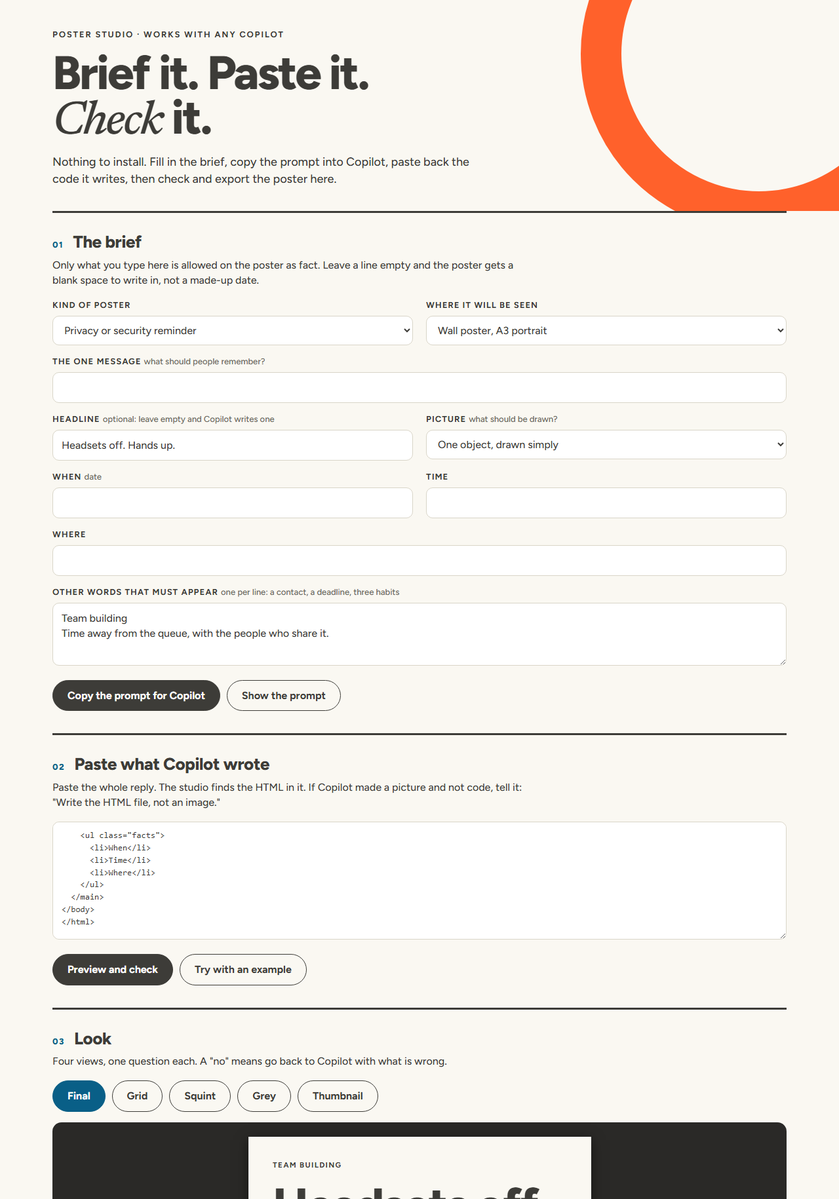
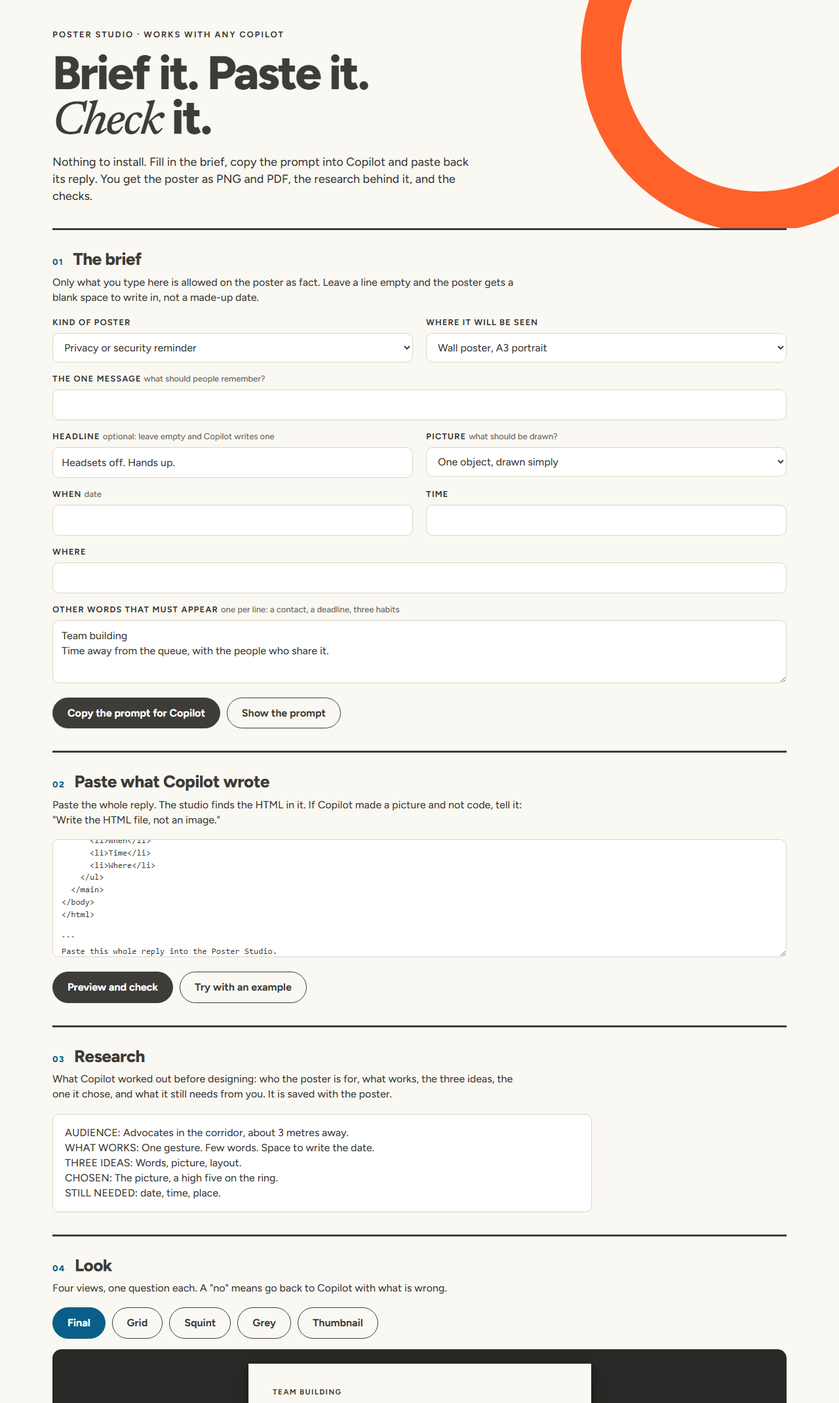
Outputs: PNG, PDF and research notes in one download; Copilot replies start with research

diff --git a/studio.html b/studio.html
@@ -52,6 +52,7 @@
   .FAIL b { color: var(--bad); } .WARN b { color: var(--warn); } .PASS b { color: var(--good); }
   ul.results i { font-style: normal; font-size: 12px; letter-spacing: .08em; text-transform: uppercase; color: #6b6960; }
   .sum { font-weight: 800; font-size: 18px; margin-top: 14px; }
+  pre.notes { white-space: pre-wrap; font: inherit; background: var(--paper); border: 1.5px solid var(--line); border-radius: 10px; padding: 16px 18px; max-width: 80ch; }
   .looks { display: grid; grid-template-columns: repeat(4, minmax(0, 1fr)); gap: 14px; margin-top: 14px; font-size: 14px; }
   .looks div { background: var(--tint); border-radius: 10px; padding: 12px 14px; }
   .looks strong { display: block; font-weight: 800; }
@@ -63,7 +64,7 @@
 <header>
   <p class="k">Poster Studio · works with any Copilot</p>
   <h1>Brief it. Paste it. <em>Check</em> it.</h1>
-  <p class="lead">Nothing to install. Fill in the brief, copy the prompt into Copilot, paste back the code it writes, then check and export the poster here.</p>
+  <p class="lead">Nothing to install. Fill in the brief, copy the prompt into Copilot and paste back its reply. You get the poster as PNG and PDF, the research behind it, and the checks.</p>
 </header>
 
 <main>
@@ -114,8 +115,14 @@
     </div>
   </section>
 
+  <section aria-labelledby="sr">
+    <h2 id="sr"><b>03</b>Research</h2>
+    <p class="hint">What Copilot worked out before designing: who the poster is for, what works, the three ideas, the one it chose, and what it still needs from you. It is saved with the poster.</p>
+    <pre id="notes" class="notes">The research appears here.</pre>
+  </section>
+
   <section aria-labelledby="s3">
-    <h2 id="s3"><b>03</b>Look</h2>
+    <h2 id="s3"><b>04</b>Look</h2>
     <p class="hint">Four views, one question each. A "no" means go back to Copilot with what is wrong.</p>
     <div class="row" role="group" aria-label="View">
       <button class="quiet view" data-view="final" aria-pressed="true">Final</button>
@@ -134,7 +141,7 @@
   </section>
 
   <section aria-labelledby="s4">
-    <h2 id="s4"><b>04</b>Checks</h2>
+    <h2 id="s4"><b>05</b>Checks</h2>
     <p class="hint">Measured on the poster as it is drawn. Fix every FAIL. For a WARN, fix it or know why it stays.</p>
     <p class="sum" id="sum">Nothing checked yet.</p>
     <ul class="results" id="results"></ul>
@@ -145,14 +152,17 @@
   </section>
 
   <section aria-labelledby="s5">
-    <h2 id="s5"><b>05</b>Export</h2>
-    <p class="hint">PDF is for printing and is exact. In the print window choose "Save as PDF", margins "None", and turn on "Background graphics". PNG is for screens and chat, and needs the internet once.</p>
+    <h2 id="s5"><b>06</b>Download</h2>
+    <p class="hint">One click each. "Everything" is a ZIP with the PNG, the PDF, the HTML file and the research notes with the check results. The files are made in your browser; the first download needs the internet.</p>
     <div class="row">
-      <button id="pdf" disabled>Save as PDF</button>
-      <button id="png" class="quiet" disabled>Save as PNG</button>
-      <button id="save" class="quiet" disabled>Save the HTML file</button>
-      <span id="exported" class="said" role="status"></span>
+      <button id="all" disabled>Download everything</button>
+      <button id="png" class="quiet" disabled>PNG</button>
+      <button id="pdf" class="quiet" disabled>PDF</button>
+      <button id="notesfile" class="quiet" disabled>Research notes</button>
+      <button id="save" class="quiet" disabled>HTML file</button>
+      <button id="print" class="quiet" disabled>Print</button>
     </div>
+    <p id="exported" class="said" role="status" style="margin-top:12px"></p>
   </section>
 </main>
 
@@ -227,8 +237,15 @@ HOW TO BUILD IT
 - Check line breaks: no single short word alone on a line.
 
 YOUR REPLY
-First, three lines: three different ideas for this poster in one line each (one led by the words, one by the picture, one by the layout), then one line naming the idea you chose and why.
-Then the complete HTML file in ONE code block, from <!doctype html> to </html>. Nothing after it.`
+Always three parts, in this order:
+Part 1. RESEARCH, as short plain text (about 130 words in all), under these five headings:
+AUDIENCE: who sees it, where, from how far away, and for how long.
+WHAT WORKS: three things good posters of this kind do. Design observations only: no statistics, no studies, no sources.
+THREE IDEAS: one led by the words, one by the picture, one by the layout. One line each.
+CHOSEN: which idea you built, and why the other two lost.
+STILL NEEDED: every fact I did not give you (date, time, place, a photo, a logo), or "nothing".
+Part 2. The complete HTML file in ONE code block, from <!doctype html> to </html>.
+Part 3. One line: "Paste this whole reply into the Poster Studio to get the PNG, the PDF and the research notes: https://micolekurt.github.io/poster-designer-agent/studio.html"`
 }
 
 function allowedText() {
@@ -252,6 +269,11 @@ function extractHtml(raw) {
   const end = s.toLowerCase().lastIndexOf('</html>')
   if (start === -1) return null
   return (end > start ? s.slice(start, end + 7) : s.slice(start)).trim()
+}
+/* everything Copilot wrote before the code is its research */
+function extractNotes(raw) {
+  const cut = raw.search(/```|<!doctype html|<html/i)
+  return (cut === -1 ? '' : raw.slice(0, cut)).replace(/\*\*/g, '').trim()
 }
 
 /* ---------- 3. preview ---------- */
@@ -480,34 +502,32 @@ $('fix').onclick = () => {
   copyText(msg, $('fixed'), 'Copied. Paste it into Copilot.')
 }
 
-async function run(html) {
+let notes = ''
+async function run(html, research) {
+  notes = research || ''
+  $('sum').textContent = 'Checking ...'; $('results').innerHTML = ''
+  $('notes').textContent = notes || 'Copilot gave no research with this poster. Ask it: "Add the research part: audience, what works, three ideas, chosen, still needed."'
   await render(html)
   showResults(check())
-  for (const id of ['pdf', 'png', 'save']) $(id).disabled = false
+  for (const id of ['all', 'pdf', 'png', 'notesfile', 'save', 'print']) $(id).disabled = false
 }
 $('run').onclick = () => {
   const html = extractHtml($('html').value)
   if (!html) { $('sum').textContent = 'No HTML found in what you pasted. Ask Copilot to write the HTML file, not an image.'; $('results').innerHTML = ''; return }
-  run(html)
+  run(html, extractNotes($('html').value))
 }
 
 /* ---------- 5. export ---------- */
 function download(name, blob) { const a = document.createElement('a'); a.href = URL.createObjectURL(blob); a.download = name; a.click(); setTimeout(() => URL.revokeObjectURL(a.href), 4000) }
-$('save').onclick = () => download('poster.html', new Blob([current.html], { type: 'text/html' }))
-$('pdf').onclick = () => {
-  const { fmt, html } = current
-  const page = `<style>@page{size:${fmt.page[0]} ${fmt.page[1]};margin:0}html,body{width:${fmt.page[0]}!important;height:${fmt.page[1]}!important;-webkit-print-color-adjust:exact;print-color-adjust:exact}</style>`
-  const w = window.open('', '_blank')
-  if (!w) { $('exported').textContent = 'The browser blocked the print window. Allow pop-ups for this page and try again.'; return }
-  w.document.open(); w.document.write(html.replace(/<\/head>/i, page + '</head>')); w.document.close()
-  const go = () => setTimeout(() => { w.focus(); w.print() }, 600)
-  if (w.document.fonts && w.document.fonts.ready) w.document.fonts.ready.then(go); else go()
-}
+const say = (t) => { $('exported').textContent = t }
+const lib = (global, src) => window[global] ? Promise.resolve() : new Promise((ok, no) => { const el = document.createElement('script'); el.src = src; el.onload = ok; el.onerror = no; document.head.appendChild(el) })
+const OFFLINE = 'These downloads need the internet the first time and it was blocked here. Use Print and choose "Save as PDF", or in Edge press Ctrl+Shift+S to capture the preview.'
+
 /* A picture of the page only keeps its typefaces if the font files travel inside it.
    This reads the poster's Google Fonts stylesheet, keeps the Latin faces, and inlines each file. */
 async function embedFonts(doc) {
   const hrefs = [...doc.querySelectorAll('link[rel="stylesheet"]')].map((l) => l.href).filter((h) => /fonts\.googleapis\.com/.test(h))
-  for (const s of doc.querySelectorAll('style')) for (const m of s.textContent.matchAll(/@import\s+url\(["']?(https:\/\/fonts\.googleapis\.com[^"')]+)/g)) hrefs.push(m[1])
+  for (const st of doc.querySelectorAll('style')) for (const m of st.textContent.matchAll(/@import\s+url\(["']?(https:\/\/fonts\.googleapis\.com[^"')]+)/g)) hrefs.push(m[1])
   let css = ''
   for (const href of hrefs) {
     const text = await (await fetch(href)).text()
@@ -524,21 +544,74 @@ async function embedFonts(doc) {
   return css
 }
 
+/* the poster as a PNG, at print resolution for paper sizes */
+let pngCache = null
+async function makePng() {
+  if (pngCache && pngCache.html === current.html && pngCache.fmt === current.fmt) return pngCache.blob
+  await lib('htmlToImage', 'https://cdn.jsdelivr.net/npm/html-to-image@1.11.11/dist/html-to-image.js')
+  const { iframe, fmt } = current
+  const before = view; view = 'final'; applyView()
+  const fontEmbedCSS = await embedFonts(iframe.contentDocument)
+  const pixelRatio = fmt.w < 1200 ? 3 : 2      // A3 and A4 come out near 300 dpi
+  const blob = await window.htmlToImage.toBlob(iframe.contentDocument.documentElement, { width: fmt.w, height: fmt.h, pixelRatio, backgroundColor: '#ffffff', fontEmbedCSS })
+  view = before; applyView()
+  pngCache = { html: current.html, fmt: current.fmt, blob, px: [fmt.w * pixelRatio, fmt.h * pixelRatio] }
+  return blob
+}
+/* the same picture on a page of the exact paper size */
+async function makePdf() {
+  const png = await makePng()
+  await lib('jspdf', 'https://cdn.jsdelivr.net/npm/jspdf@2.5.1/dist/jspdf.umd.min.js')
+  const { fmt } = current
+  const w = parseFloat(fmt.page[0]), h = parseFloat(fmt.page[1])
+  const data = await new Promise((ok) => { const fr = new FileReader(); fr.onload = () => ok(fr.result); fr.readAsDataURL(png) })
+  const pdf = new window.jspdf.jsPDF({ orientation: w > h ? 'landscape' : 'portrait', unit: 'mm', format: [w, h], compress: true })
+  pdf.addImage(data, 'PNG', 0, 0, w, h, undefined, 'FAST')
+  return pdf.output('blob')
+}
+/* the brief, Copilot's research and the check results, as one readable file */
+function notesFile() {
+  const v = (id) => $(id).value.trim()
+  const res = window.__results || []
+  const f = res.filter((r) => r.level === 'FAIL').length, w = res.filter((r) => r.level === 'WARN').length
+  const brief = [['Kind', $('kind').value], ['Seen on', $('format').selectedOptions[0].text], ['The one message', v('message')], ['Headline', v('headline')], ['When', v('when')], ['Time', v('time')], ['Where', v('where')], ['Other words', lines($('extra').value).join('; ')]]
+  return ['# Poster notes', '',
+    '## Brief', '', ...brief.map(([k, x]) => `- **${k}:** ${x || 'not given'}`), '',
+    '## Research', '', notes || 'No research was given with this poster.', '',
+    '## Checks', '', `**${f} fail, ${w} warn, ${res.length - f - w} pass**`, '', ...res.map((r) => `- ${r.level} (${r.group}): ${r.msg}`), '',
+    '## Files', '', '- `poster.png`: for screens, chat and slides', '- `poster.pdf`: for printing, at the exact paper size', '- `poster.html`: the source; open it in a browser or change it and check again', '',
+    '## Before it goes up', '', '- Every fact on the poster was given by a person, not written by the assistant.', '- No member, patient or caller information.', '- The official logo file is added by hand if one is needed.', ''].join('\n')
+}
+
+$('save').onclick = () => download('poster.html', new Blob([current.html], { type: 'text/html' }))
+$('notesfile').onclick = () => download('poster-notes.md', new Blob([notesFile()], { type: 'text/markdown' }))
 $('png').onclick = async () => {
-  const say = $('exported')
-  say.textContent = 'Making the PNG ...'
+  say('Making the PNG ...')
+  try { download('poster.png', await makePng()); say(`Saved poster.png (${pngCache.px[0]} x ${pngCache.px[1]} px).`) } catch { say(OFFLINE) }
+}
+$('pdf').onclick = async () => {
+  say('Making the PDF ...')
+  try { download('poster.pdf', await makePdf()); say(`Saved poster.pdf (${current.fmt.page[0]} x ${current.fmt.page[1]}).`) } catch { say(OFFLINE) }
+}
+$('all').onclick = async () => {
+  say('Making the PNG, the PDF and the notes ...')
   try {
-    if (!window.htmlToImage) await new Promise((ok, no) => { const s = document.createElement('script'); s.src = 'https://cdn.jsdelivr.net/npm/html-to-image@1.11.11/dist/html-to-image.js'; s.onload = ok; s.onerror = no; document.head.appendChild(s) })
-    const { iframe, fmt } = current
-    const before = view; view = 'final'; applyView()
-    const fontEmbedCSS = await embedFonts(iframe.contentDocument)
-    const blob = await window.htmlToImage.toBlob(iframe.contentDocument.documentElement, { width: fmt.w, height: fmt.h, pixelRatio: 2, backgroundColor: '#ffffff', fontEmbedCSS })
-    view = before; applyView()
-    download('poster.png', blob)
-    say.textContent = `Saved poster.png (${fmt.w * 2} x ${fmt.h * 2} px). Compare it with the preview before you send it.`
-  } catch (e) {
-    say.textContent = 'PNG export needs the internet and was blocked here. Use Save as PDF, or in Edge press Ctrl+Shift+S to capture the preview.'
-  }
+    const png = await makePng(), pdf = await makePdf()
+    await lib('JSZip', 'https://cdn.jsdelivr.net/npm/jszip@3.10.1/dist/jszip.min.js')
+    const zip = new window.JSZip()
+    zip.file('poster.png', png); zip.file('poster.pdf', pdf); zip.file('poster.html', current.html); zip.file('poster-notes.md', notesFile())
+    download('poster-pack.zip', await zip.generateAsync({ type: 'blob' }))
+    say('Saved poster-pack.zip: poster.png, poster.pdf, poster.html and poster-notes.md. Open the PNG and compare it with the preview before you send it.')
+  } catch { say(OFFLINE) }
+}
+$('print').onclick = () => {
+  const { fmt, html } = current
+  const page = `<style>@page{size:${fmt.page[0]} ${fmt.page[1]};margin:0}html,body{width:${fmt.page[0]}!important;height:${fmt.page[1]}!important;-webkit-print-color-adjust:exact;print-color-adjust:exact}</style>`
+  const w = window.open('', '_blank')
+  if (!w) { say('The browser blocked the print window. Allow pop-ups for this page and try again.'); return }
+  w.document.open(); w.document.write(html.replace(/<\/head>/i, page + '</head>')); w.document.close()
+  const go = () => setTimeout(() => { w.focus(); w.print() }, 600)
+  if (w.document.fonts && w.document.fonts.ready) w.document.fonts.ready.then(go); else go()
 }
 
 /* ---------- example, so the page can be tried without Copilot ---------- */
@@ -563,13 +636,18 @@ li{border-top:calc(.4*var(--u)) solid #3d3c38;padding:calc(1.7*var(--u)) 0;font-
 <h1>Lock it<br>before you<br><em>leave</em> it.</h1>
 <ul><li>Lock your screen.</li><li>Shred your notes.</li><li>Clear your desk.</li></ul>
 </main></body></html>`
+const EXAMPLE_NOTES = `AUDIENCE: Advocates leaving and returning to their desks, passing a corridor wall at about 3 metres, for 3 seconds.
+WHAT WORKS: One object that says the subject before a word is read. A headline that is an instruction, not a slogan. Three short actions in the order they are done.
+THREE IDEAS: Words: the headline alone, very large. Picture: a padlock on an orange disc cropped by the corner. Layout: three numbered steps as the whole poster.
+CHOSEN: The picture. The padlock reads from across the room; the words alone looked like a notice, and the steps alone had nothing to stop the eye.
+STILL NEEDED: nothing.`
 $('example').onclick = () => {
   $('kind').value = 'Privacy or security reminder'; $('format').value = 'a3'; $('picture').value = 'object'
   $('message').value = 'Lock your screen and clear your desk every time you step away.'
   $('headline').value = 'Lock it before you leave it.'
   $('extra').value = 'Privacy\nLock your screen.\nShred your notes.\nClear your desk.'
-  $('html').value = EXAMPLE
-  run(EXAMPLE)
+  $('html').value = EXAMPLE_NOTES + '\n\n```html\n' + EXAMPLE + '\n```'
+  run(EXAMPLE, EXAMPLE_NOTES)
 }
 </script>
 </body>

diff --git a/examples/hands-up/research.md b/examples/hands-up/research.md
@@ -1,0 +1,60 @@
+# Team building poster: research notes
+
+## Audience
+Customer care advocates passing a corridor wall or sitting in the break room. They see it from about 3 metres, for about 3 seconds, between calls. The same design also goes in the team chat, read on a phone.
+
+## What works
+Observations from looking at strong event posters beside template ones:
+
+- One gesture or object carries the subject before any word is read.
+- The headline is two short lines of plain speech, far larger than everything else.
+- The facts needed to turn up (when, time, where) sit together in one quiet place, away from the picture.
+- Two or three flat colours, with a lot of empty space.
+
+## Three ideas
+See `concepts.png`.
+
+| | Idea | Led by |
+|---|---|---|
+| A | The orange ring is the "O" of "off" in the headline | Words |
+| B | A colleague high-fives a teammate coming in from the edge of the sheet; their palms meet on the ring | Picture |
+| C | The ring is a table seen from above, with one empty seat | Layout |
+
+## Chosen: B
+It is the only one where a person is the idea and it still reads at thumbnail size.
+
+- **A lost** because the person shrank to a token inside a letter, and the headline needed an awkward hyphen break.
+- **C lost** because the people became dots, so it read as a diagram. "Your seat is saved" also implied a booking that nobody had confirmed.
+
+## Decisions
+1. **Orange is only the ring, and the hands meet on it.** Charcoal palms on orange are the strongest contrast on the sheet, so the eye lands on the high five first.
+2. **The figures are solid charcoal shapes with round ends,** cropped at the hips by the sky band. One wears a headset pushed down round the neck, which carries "Headsets off."
+3. **The facts are a write-in strip, not sample text.** When, Time and Where are real labels on ruled lines, with room to write one line under each.
+
+Changes after the first render: the figures were narrowed and the arms attached at the shoulder; the headline was set on two lines; the supporting line moved clear of the ring; a headset cord was removed because it read as a stethoscope.
+
+## Checks
+- A3: `0 fail, 0 warn, 8 pass`
+- 4:5 chat version: `0 fail, 0 warn, 8 pass`
+- Looked at: the full render, the blurred view, the thumbnail, the greyscale and the grid overlay, for both sizes (`checks.png`).
+- Copy on the sheet: "Team building", "Headsets off. Hands up.", "Time away from the queue, with the people who share it.", and the labels When, Time, Where. 20 words.
+
+## Still needed
+1. Date
+2. Start and end time
+3. Venue (floor and room, or an off-site address)
+4. The activity, if it should be named
+5. Who is organising, if they should be credited
+6. Optional: a cut-out photograph of a team member who has agreed to appear (waist up, one arm raised). It replaces the drawn figure without changing the layout.
+7. Optional: the official logo file
+
+## Files
+| File | Use |
+|---|---|
+| `poster.png` | A3 poster as an image (3509 × 4959 px) |
+| `poster.pdf` | A3 poster for printing |
+| `poster-chat.png` | 4:5 version for the team chat (2160 × 2700 px) |
+| `poster.html`, `brief.json` | The source and the brief |
+| `concepts.png`, `checks.png` | The three ideas side by side, and the check views |
+
+The look follows an unofficial profile made from the public Optum website. The fonts are stand-ins (Figtree and Newsreader), and no logo is placed. The company's own brand guide, fonts and logo files take priority.

diff --git a/README.md b/README.md
@@ -49,9 +49,15 @@ HOW TO BUILD IT
 - Check line breaks: no single short word alone on a line.
 
 HOW TO REPLY TO EACH REQUEST
-1. One line: the idea you chose.
-2. The complete HTML file in ONE code block, from <!doctype html> to </html>.
-3. One line: "Paste this into the Poster Studio to check and export it: https://micolekurt.github.io/poster-designer-agent/studio.html"
+Always three parts, in this order:
+Part 1. RESEARCH, as short plain text (about 130 words in all), under these five headings:
+AUDIENCE: who sees it, where, from how far away, and for how long.
+WHAT WORKS: three things good posters of this kind do. Design observations only: no statistics, no studies, no sources.
+THREE IDEAS: one led by the words, one by the picture, one by the layout. One line each.
+CHOSEN: which idea you built, and why the other two lost.
+STILL NEEDED: every fact I did not give you (date, time, place, a photo, a logo), or "nothing".
+Part 2. The complete HTML file in ONE code block, from <!doctype html> to </html>.
+Part 3. One line: "Paste this whole reply into the Poster Studio to get the PNG, the PDF and the research notes: https://micolekurt.github.io/poster-designer-agent/studio.html"
 
 Reply to this message with only: "Poster Designer is ready. What is the poster for?"
 ````
@@ -72,7 +78,16 @@ Change the headline to "Headsets off".
 
 **Open the Studio: <https://micolekurt.github.io/poster-designer-agent/studio.html>**
 
-Paste the reply into box **02**, click **Preview and check**, then **Save as PDF** or **Save as PNG**. If a check fails, one button copies the fixes to send back to Copilot.
+Paste the whole reply into box **02**, click **Preview and check**, then **Download everything**. If a check fails, one button copies the fixes to send back to Copilot.
+
+You get one ZIP with:
+
+| File | What it is |
+|---|---|
+| `poster.png` | The poster as an image, for screens, chat and slides |
+| `poster.pdf` | The poster at the exact paper size, for printing |
+| `poster-notes.md` | The research: who it is for, what works, the three ideas, the one chosen and why, what is still needed, plus your brief and the check results |
+| `poster.html` | The source, to change and check again |
 
 ![Poster Studio: a brief form, the pasted code, and the poster previewed and checked](docs/studio.png)
 

diff --git a/.claude/agents/poster-designer.md b/.claude/agents/poster-designer.md
@@ -28,7 +28,7 @@ Follow the seven steps in `references/process.md` in order. In short:
 4. **Build.** Start from `templates/base.html`. Grid, then type scale, then colour, then the image. Use `--u` units so one file renders at any size.
 5. **Measure.** `render.py --grid`, then `check.py --brief`. Fix every FAIL. For every WARN, fix it or write one sentence on why it stays.
 6. **Look again.** Open the four images. Apply the checks in `references/anti-slop.md`. Change something and render again at least once: the first render is a draft.
-7. **Hand over.** Final PNG (and PDF for print), the brief, the HTML source, and a short rationale: the idea, the three decisions that matter, what was checked, and anything still open.
+7. **Hand over.** Always these files, in the poster's folder: `poster.png`, `poster.pdf`, `poster.html`, `brief.json`, and `research.md`. The research file has six short sections: Audience (who, where, how far, how long); What works (what you saw in real references, in words; no invented statistics or sources); Three ideas (with the concepts sheet); Chosen (and why the other two lost); Decisions (the three that matter); Checks and what is still needed (the check.py result line, what you looked at, and every fact, photo or logo still owed).
 
 ## Product posters
 When a product is the subject, read `references/product-lighting.md` first. Decide where the light comes from before anything else, then make the highlight, the shade, the rim light, the contact shadow and the cast shadow all agree with it. A product with no shadow is a sticker.

diff --git a/agents/poster-designer.md b/agents/poster-designer.md
@@ -28,7 +28,7 @@ Follow the seven steps in `references/process.md` in order. In short:
 4. **Build.** Start from `templates/base.html`. Grid, then type scale, then colour, then the image. Use `--u` units so one file renders at any size.
 5. **Measure.** `render.py --grid`, then `check.py --brief`. Fix every FAIL. For every WARN, fix it or write one sentence on why it stays.
 6. **Look again.** Open the four images. Apply the checks in `references/anti-slop.md`. Change something and render again at least once: the first render is a draft.
-7. **Hand over.** Final PNG (and PDF for print), the brief, the HTML source, and a short rationale: the idea, the three decisions that matter, what was checked, and anything still open.
+7. **Hand over.** Always these files, in the poster's folder: `poster.png`, `poster.pdf`, `poster.html`, `brief.json`, and `research.md`. The research file has six short sections: Audience (who, where, how far, how long); What works (what you saw in real references, in words; no invented statistics or sources); Three ideas (with the concepts sheet); Chosen (and why the other two lost); Decisions (the three that matter); Checks and what is still needed (the check.py result line, what you looked at, and every fact, photo or logo still owed).
 
 ## Product posters
 When a product is the subject, read `references/product-lighting.md` first. Decide where the light comes from before anything else, then make the highlight, the shade, the rim light, the contact shadow and the cast shadow all agree with it. A product with no shadow is a sticker.

diff --git a/.github/agents/poster-designer.agent.md b/.github/agents/poster-designer.agent.md
@@ -44,7 +44,7 @@ Follow the seven steps in `SKILL/references/process.md` in order:
 4. **Build.** Start from `SKILL/templates/base.html`. Grid, then type scale, then colour, then the image. Sizes in `--u` units so one file renders at any format.
 5. **Measure.** `render.py --grid`, then `check.py --brief`. Fix every FAIL. For every WARN, fix it or write one sentence on why it stays.
 6. **Look again.** Check the four images against `SKILL/references/anti-slop.md`. Change something and render again at least once.
-7. **Hand over.** Final PNG (and PDF for print), the brief, the HTML source, and a short rationale: the idea, the three decisions that matter, what was checked, and anything still open.
+7. **Hand over.** Always these files, in the poster's folder: `poster.png`, `poster.pdf`, `poster.html`, `brief.json`, and `research.md`. The research file has six short sections: Audience (who, where, how far, how long); What works (what you saw in real references, in words; no invented statistics or sources); Three ideas (with the concepts sheet); Chosen (and why the other two lost); Decisions (the three that matter); Checks and what is still needed (the check.py result line, what you looked at, and every fact, photo or logo still owed).
 
 ## Reporting
 Lead with the finished poster's path and the check result (for example "0 fail, 0 warn"). Then the idea in one sentence, the decisions, and what you need from the person. Say what the poster does, not how good it is.

diff --git a/skills/poster-design/SKILL.md b/skills/poster-design/SKILL.md
@@ -15,7 +15,7 @@ The work is done as HTML and CSS and rendered with a real browser, so type is re
 - [ ] `check.py --brief` reports 0 FAIL, and every WARN is fixed or explained in one sentence.
 - [ ] You opened the full render, the squint, the thumbnail and the greyscale, and each passed its question (below).
 - [ ] No fact, name, number or logo on the sheet came from you.
-- [ ] Files handed over: PNG, PDF for print formats, HTML source, brief, and a short rationale.
+- [ ] Files handed over: `poster.png`, `poster.pdf`, `poster.html`, `brief.json` and `research.md` (audience, what works, three ideas, chosen, decisions, checks and what is still needed).
 
 ## Files
 All paths are relative to the folder this file is in. The same folder works as a Claude Code skill (`~/.claude/skills/poster-design/`), a GitHub Copilot skill (`~/.copilot/skills/poster-design/` or `.github/skills/poster-design/`), or in place inside the repository (`skills/poster-design/`).
